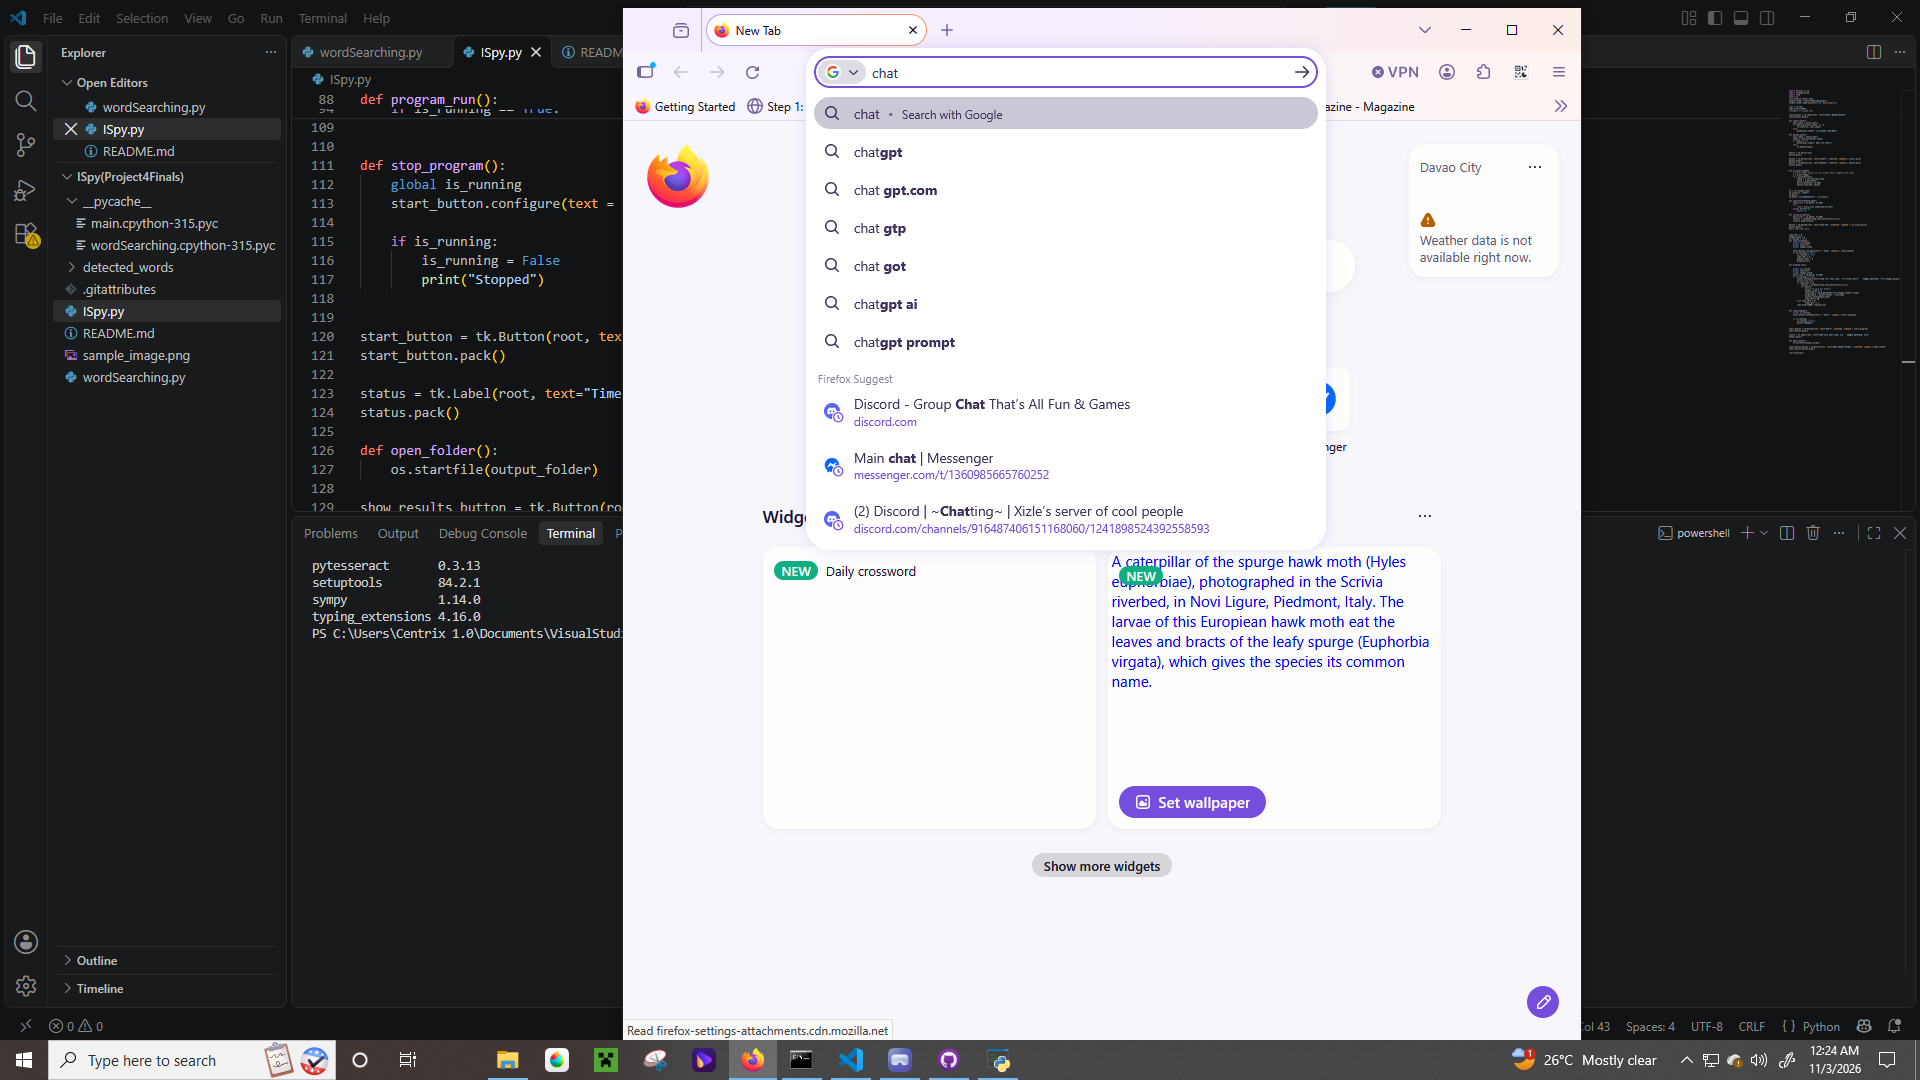
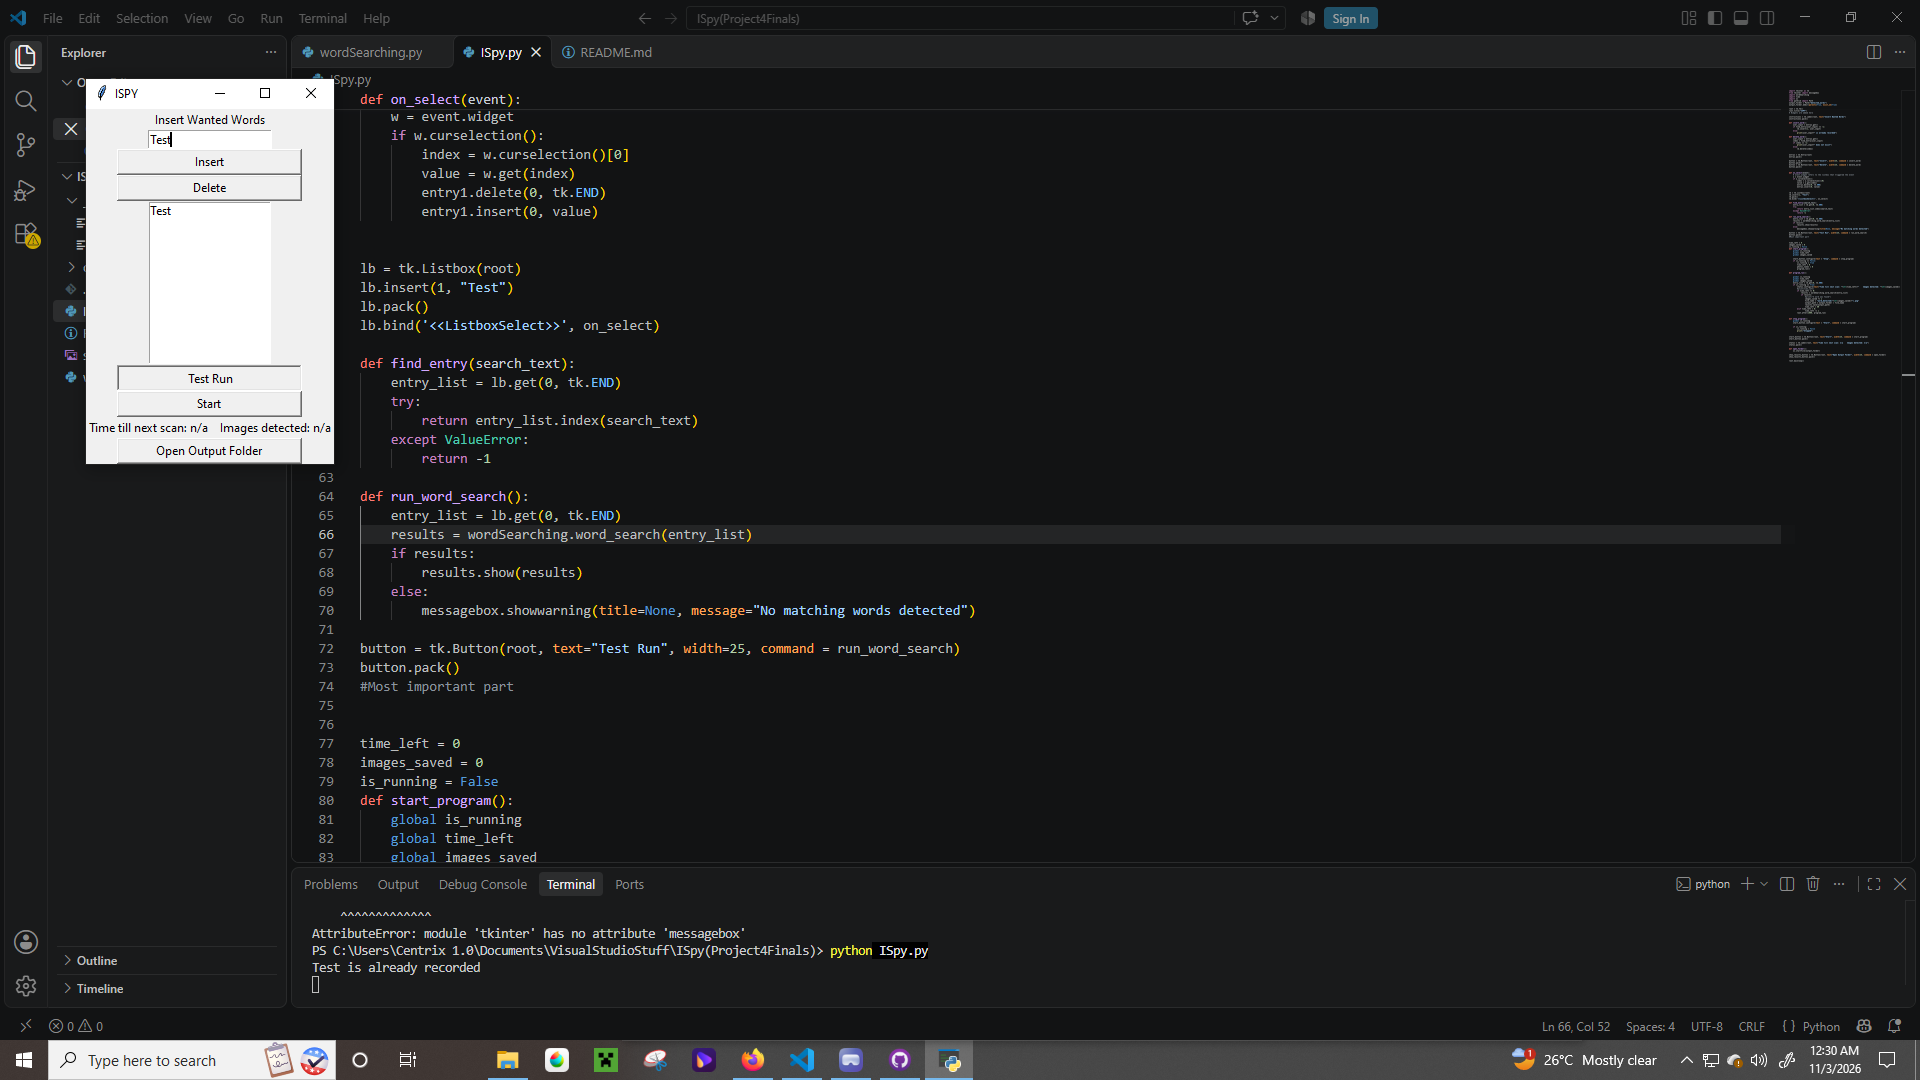
update again

diff --git a/ISpy.py b/ISpy.py
@@ -1,4 +1,5 @@
 import tkinter as tk
+from tkinter import messagebox 
 import wordSearching
 import time
 import os
@@ -63,7 +64,10 @@ def find_entry(search_text):
 def run_word_search():
     entry_list = lb.get(0, tk.END)
     results = wordSearching.word_search(entry_list)
-    results.show(results)
+    if results:
+        results.show(results)
+    else:
+        messagebox.showwarning(title=None, message="No matching words detected")
 
 button = tk.Button(root, text="Test Run", width=25, command = run_word_search)
 button.pack()
